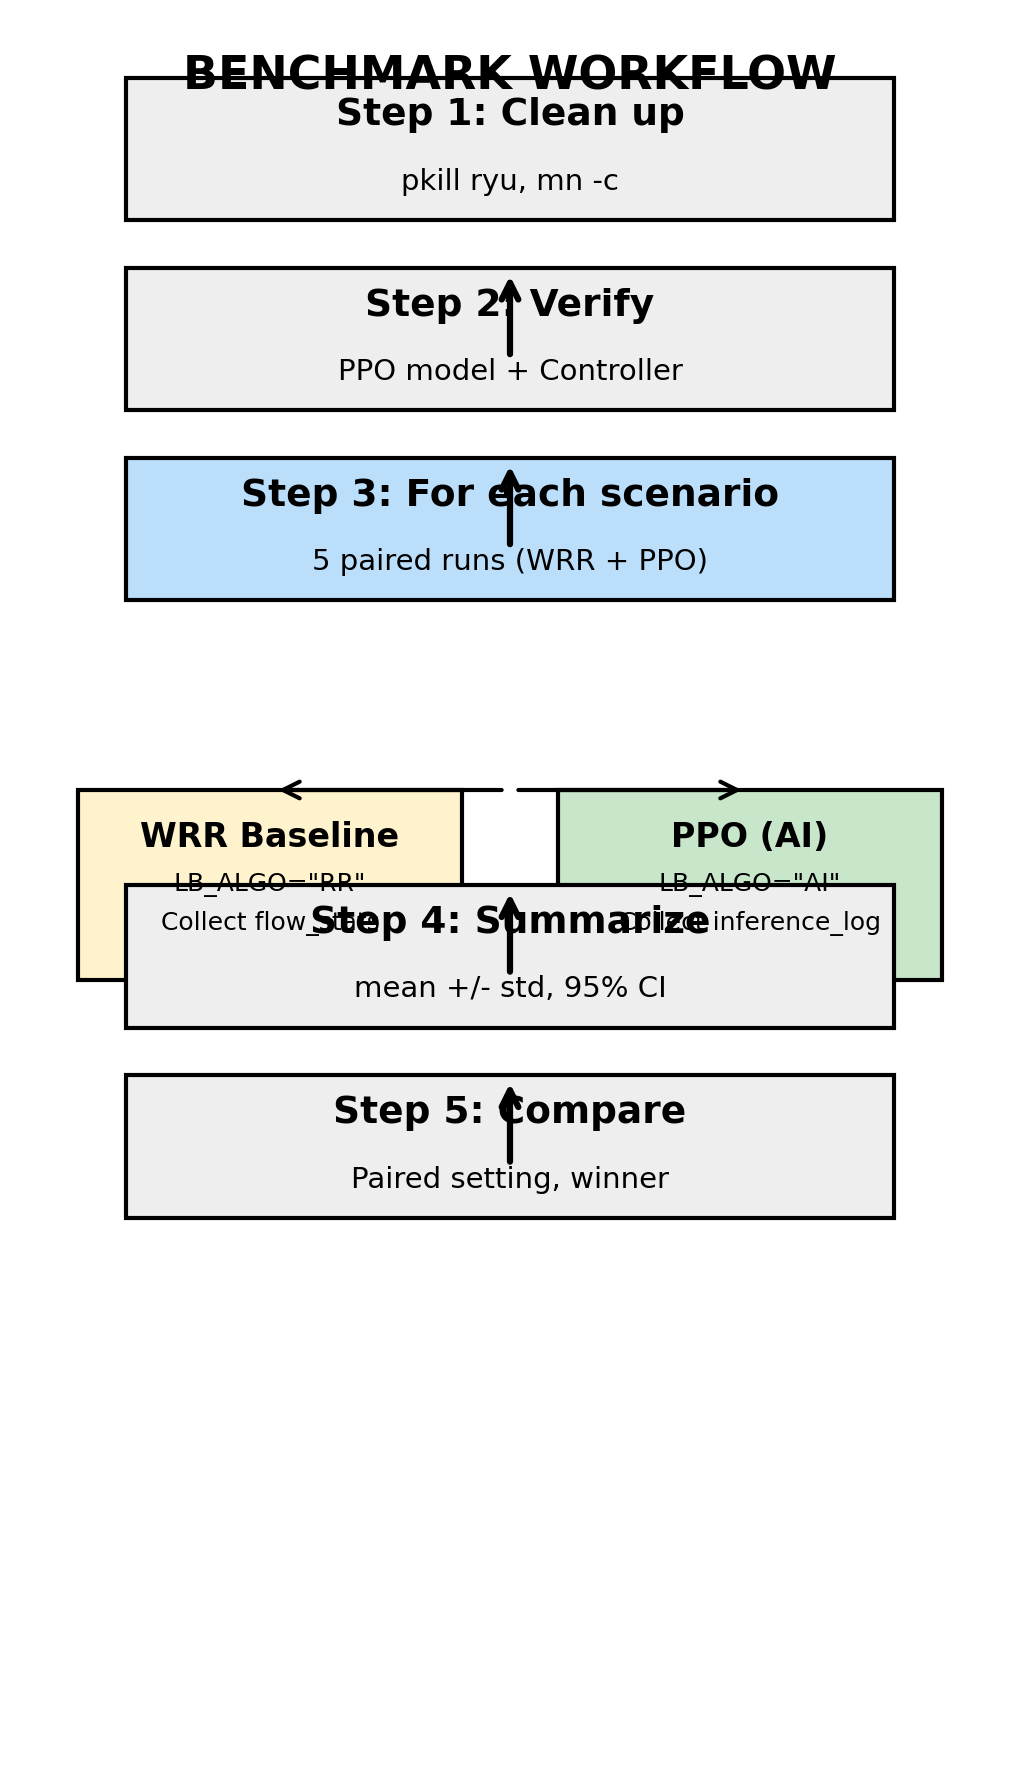
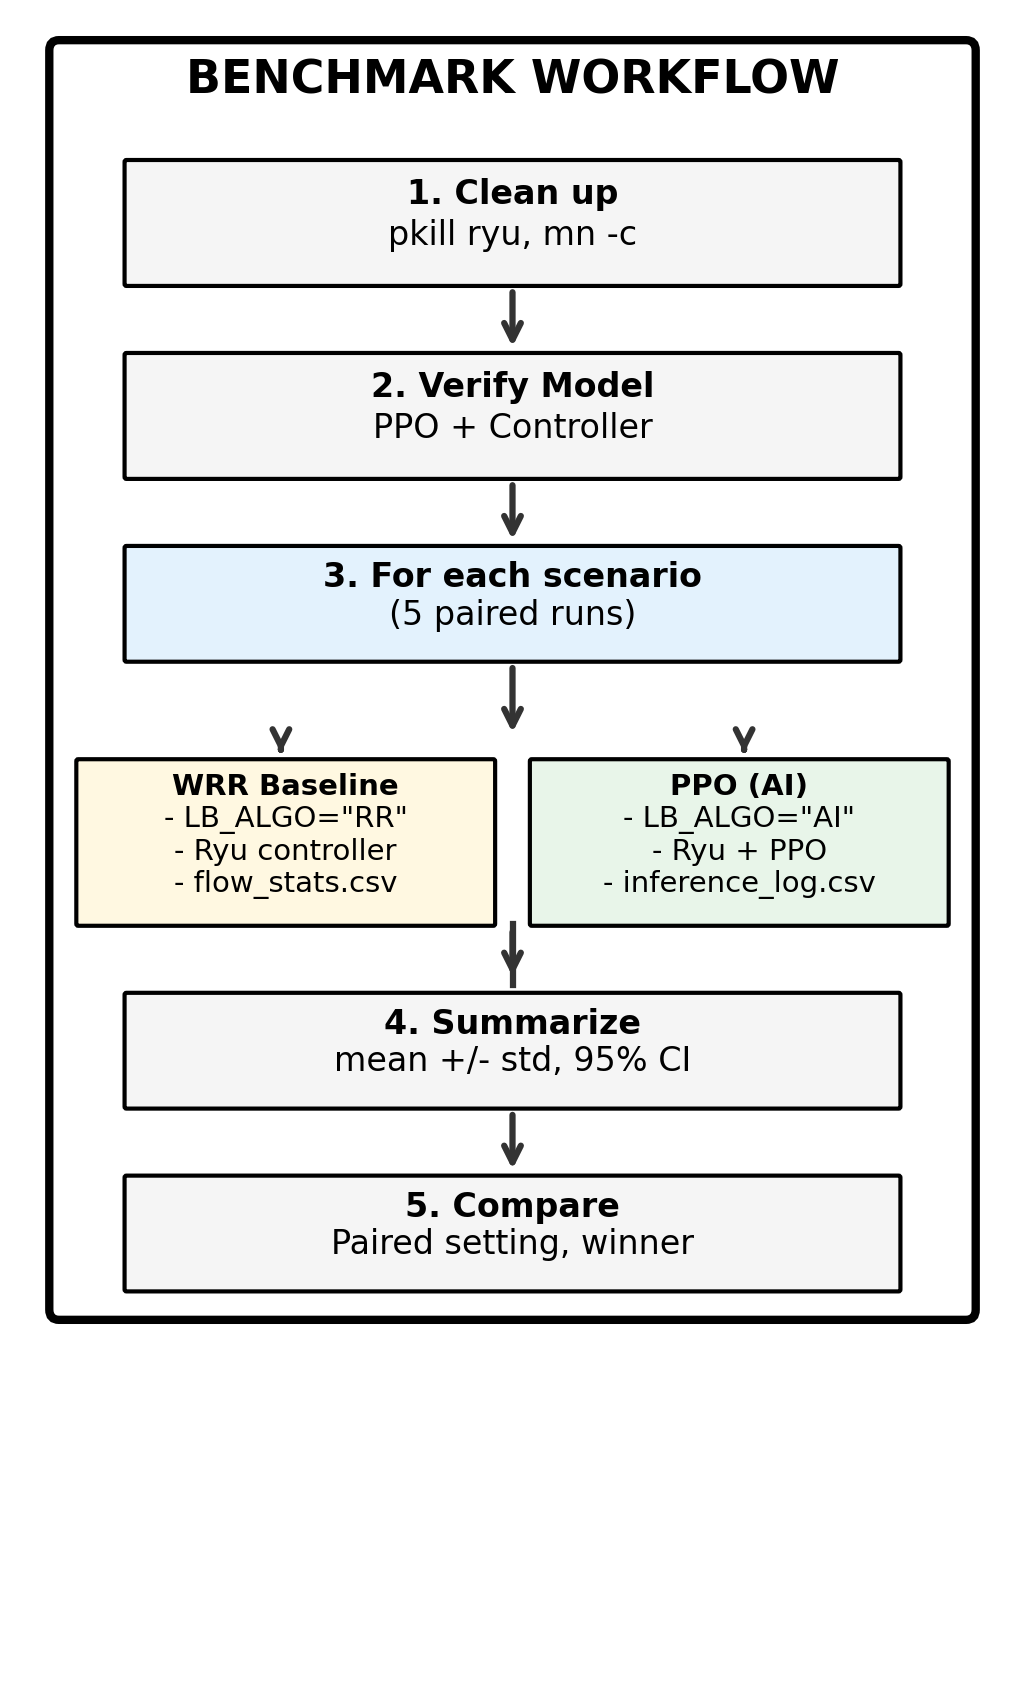
docs: v5 benchmark workflow - fixed spacing

Changed region(s): [[0.0304, 0.0, 0.9725, 0.8024]]

diff --git a/scripts/generate_benchmark_workflow.py b/scripts/generate_benchmark_workflow.py
@@ -1,104 +1,88 @@
 #!/usr/bin/env python3
-"""Generate benchmark workflow diagram - v4 - ultra simple."""
-
+"""
+Generate benchmark workflow diagram - v5
+Using simple rectangles with text annotations - no overlapping
+"""
 import matplotlib
 matplotlib.use('Agg')
 import matplotlib.pyplot as plt
-import matplotlib.patches as patches
+import matplotlib.patches as mpatches
 
-def main():
-    output_dir = 'docs/figures'
-    
-    fig, ax = plt.subplots(figsize=(3.5, 6), dpi=300)
-    ax.set_xlim(0, 10)
-    ax.set_ylim(0, 18)
-    ax.axis('off')
-    
-    # Title
-    ax.text(5, 17.5, 'BENCHMARK WORKFLOW', ha='center', va='center',
-            fontsize=11, fontweight='bold', fontfamily='sans-serif')
-    
-    y = 16
-    step_h = 1.5
-    step_gap = 0.5
-    
-    # Step 1
-    rect = patches.Rectangle((1, y), 8, step_h, linewidth=1, edgecolor='black', facecolor='#eeeeee')
-    ax.add_patch(rect)
-    ax.text(5, y + 1.1, 'Step 1: Clean up', ha='center', va='center', fontsize=9, fontweight='bold')
-    ax.text(5, y + 0.4, 'pkill ryu, mn -c', ha='center', va='center', fontsize=7)
-    y -= step_h + step_gap
-    
-    # Arrow
-    ax.annotate('', xy=(5, y + step_h), xytext=(5, y + step_gap),
-                arrowprops=dict(arrowstyle='->', color='black', lw=1.5))
-    
-    # Step 2
-    rect = patches.Rectangle((1, y), 8, step_h, linewidth=1, edgecolor='black', facecolor='#eeeeee')
-    ax.add_patch(rect)
-    ax.text(5, y + 1.1, 'Step 2: Verify', ha='center', va='center', fontsize=9, fontweight='bold')
-    ax.text(5, y + 0.4, 'PPO model + Controller', ha='center', va='center', fontsize=7)
-    y -= step_h + step_gap
-    
-    # Arrow
-    ax.annotate('', xy=(5, y + step_h), xytext=(5, y + step_gap),
-                arrowprops=dict(arrowstyle='->', color='black', lw=1.5))
-    
-    # Step 3
-    rect = patches.Rectangle((1, y), 8, step_h, linewidth=1, edgecolor='black', facecolor='#bbdefb')
-    ax.add_patch(rect)
-    ax.text(5, y + 1.1, 'Step 3: For each scenario', ha='center', va='center', fontsize=9, fontweight='bold')
-    ax.text(5, y + 0.4, '5 paired runs (WRR + PPO)', ha='center', va='center', fontsize=7)
-    y -= step_h + step_gap
-    
-    # WRR and PPO boxes
-    # WRR
-    rect_wrr = patches.Rectangle((0.5, y - 2), 4, 2, linewidth=1, edgecolor='black', facecolor='#fff3cd')
-    ax.add_patch(rect_wrr)
-    ax.text(2.5, y - 0.5, 'WRR Baseline', ha='center', va='center', fontsize=8, fontweight='bold')
-    ax.text(2.5, y - 1.0, 'LB_ALGO="RR"', ha='center', va='center', fontsize=6)
-    ax.text(2.5, y - 1.4, 'Collect flow_stats', ha='center', va='center', fontsize=6)
-    
-    # PPO
-    rect_ppo = patches.Rectangle((5.5, y - 2), 4, 2, linewidth=1, edgecolor='black', facecolor='#c8e6c9')
-    ax.add_patch(rect_ppo)
-    ax.text(7.5, y - 0.5, 'PPO (AI)', ha='center', va='center', fontsize=8, fontweight='bold')
-    ax.text(7.5, y - 1.0, 'LB_ALGO="AI"', ha='center', va='center', fontsize=6)
-    ax.text(7.5, y - 1.4, 'Collect inference_log', ha='center', va='center', fontsize=6)
-    
-    # Arrows from Step 3 to WRR and PPO
-    ax.annotate('', xy=(2.5, y), xytext=(5, y),
-                arrowprops=dict(arrowstyle='->', color='black', lw=1))
-    ax.annotate('', xy=(7.5, y), xytext=(5, y),
-                arrowprops=dict(arrowstyle='->', color='black', lw=1))
-    
-    y -= 2 + step_gap
-    
-    # Arrow down
-    ax.annotate('', xy=(5, y + step_h), xytext=(5, y + step_gap),
-                arrowprops=dict(arrowstyle='->', color='black', lw=1.5))
-    
-    # Step 4
-    rect = patches.Rectangle((1, y), 8, step_h, linewidth=1, edgecolor='black', facecolor='#eeeeee')
-    ax.add_patch(rect)
-    ax.text(5, y + 1.1, 'Step 4: Summarize', ha='center', va='center', fontsize=9, fontweight='bold')
-    ax.text(5, y + 0.4, 'mean +/- std, 95% CI', ha='center', va='center', fontsize=7)
-    y -= step_h + step_gap
-    
-    # Arrow
-    ax.annotate('', xy=(5, y + step_h), xytext=(5, y + step_gap),
-                arrowprops=dict(arrowstyle='->', color='black', lw=1.5))
-    
-    # Step 5
-    rect = patches.Rectangle((1, y), 8, step_h, linewidth=1, edgecolor='black', facecolor='#eeeeee')
-    ax.add_patch(rect)
-    ax.text(5, y + 1.1, 'Step 5: Compare', ha='center', va='center', fontsize=9, fontweight='bold')
-    ax.text(5, y + 0.4, 'Paired setting, winner', ha='center', va='center', fontsize=7)
-    
-    plt.tight_layout()
-    plt.savefig(f'{output_dir}/fig11_benchmark_workflow.png', dpi=300, bbox_inches='tight')
-    plt.close()
-    print(f"Saved: {output_dir}/fig11_benchmark_workflow.png")
+# Create figure
+fig, ax = plt.subplots(figsize=(3.3, 5.5), dpi=300)
+ax.set_xlim(0, 10)
+ax.set_ylim(0, 16)
+ax.axis('off')
+ax.set_aspect('auto')
 
-if __name__ == '__main__':
-    main()
+# Colors
+COLOR_STEP = '#f5f5f5'
+COLOR_SCENARIO = '#e3f2fd'
+COLOR_WRR = '#fff8e1'
+COLOR_PPO = '#e8f5e9'
+COLOR_ARROW = '#333333'
+
+def add_box(ax, x, y, w, h, text_lines, bg_color, fontsize=8):
+    """Add a box with centered text lines"""
+    rect = mpatches.FancyBboxPatch((x, y), w, h,
+        boxstyle="round,pad=0.02", facecolor=bg_color, edgecolor='black', linewidth=1)
+    ax.add_patch(rect)
+    line_h = h / (len(text_lines) + 1)
+    for i, line in enumerate(text_lines):
+        ty = y + h - (i + 0.8) * line_h
+        ax.text(x + w/2, ty, line, ha='center', va='center',
+                fontsize=fontsize, fontweight='bold' if i == 0 else 'normal',
+                wrap=True)
+
+def add_arrow(ax, x1, y1, x2, y2):
+    """Add arrow"""
+    ax.annotate('', xy=(x2, y2), xytext=(x1, y1),
+                arrowprops=dict(arrowstyle='->', color=COLOR_ARROW, lw=1.5))
+
+# Title
+ax.text(5, 15.5, 'BENCHMARK WORKFLOW', ha='center', va='center',
+        fontsize=11, fontweight='bold')
+
+# Step 1: Clean up
+add_box(ax, 1, 13.5, 8, 1.2, ['1. Clean up', 'pkill ryu, mn -c'], COLOR_STEP)
+add_arrow(ax, 5, 13.5, 5, 12.8)
+
+# Step 2: Verify
+add_box(ax, 1, 11.6, 8, 1.2, ['2. Verify Model', 'PPO + Controller'], COLOR_STEP)
+add_arrow(ax, 5, 11.6, 5, 10.9)
+
+# Step 3: Scenario (wider box)
+add_box(ax, 1, 9.8, 8, 1.1, ['3. For each scenario', '(5 paired runs)'], COLOR_SCENARIO, fontsize=8)
+add_arrow(ax, 5, 9.8, 5, 9.0)
+
+# WRR box (left side)
+add_box(ax, 0.5, 7.2, 4.3, 1.6, ['WRR Baseline', '- LB_ALGO="RR"', '- Ryu controller', '- flow_stats.csv'], COLOR_WRR, fontsize=7)
+
+# PPO box (right side)
+add_box(ax, 5.2, 7.2, 4.3, 1.6, ['PPO (AI)', '- LB_ALGO="AI"', '- Ryu + PPO', '- inference_log.csv'], COLOR_PPO, fontsize=7)
+
+# Arrows from Step 3 to WRR/PPO
+add_arrow(ax, 2.6, 9.0, 2.6, 8.8)
+add_arrow(ax, 7.4, 9.0, 7.4, 8.8)
+
+# Arrow down from WRR/PPO to Step 4
+ax.plot([5, 5], [7.2, 6.6], color=COLOR_ARROW, linewidth=1.5)
+ax.annotate('', xy=(5, 6.6), xytext=(5, 7.2),
+            arrowprops=dict(arrowstyle='->', color=COLOR_ARROW, lw=1.5))
+
+# Step 4: Summarize
+add_box(ax, 1, 5.4, 8, 1.1, ['4. Summarize', 'mean +/- std, 95% CI'], COLOR_STEP)
+add_arrow(ax, 5, 5.4, 5, 4.7)
+
+# Step 5: Compare
+add_box(ax, 1, 3.6, 8, 1.1, ['5. Compare', 'Paired setting, winner'], COLOR_STEP)
+
+# Main border
+border = mpatches.FancyBboxPatch((0.3, 3.4), 9.4, 12.4,
+    boxstyle="round,pad=0.1", facecolor='none', edgecolor='black', linewidth=2)
+ax.add_patch(border)
+
+plt.tight_layout(pad=0.3)
+plt.savefig('docs/figures/fig11_benchmark_workflow.png', dpi=300, bbox_inches='tight')
+plt.close()
+print("Saved: docs/figures/fig11_benchmark_workflow.png")
